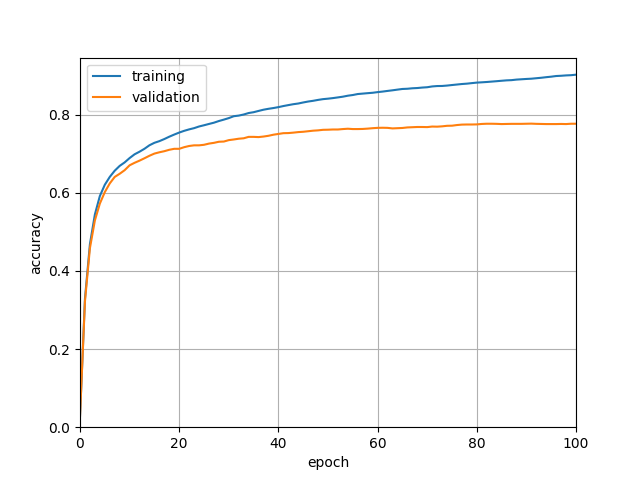
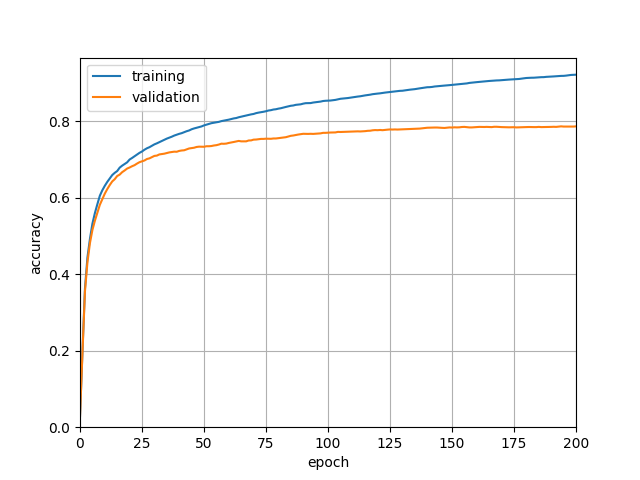
+

diff --git a/lifany_hw4/python/run_q4.py b/lifany_hw4/python/run_q4.py
@@ -46,7 +46,7 @@ for img in os.listdir("../images"):
     ##########################
     ##### your code here #####
     ##########################
-    # list of center points
+    # list of center points corresponding to the returned bboxes
     points = np.array([(bbox[0] + bbox[2])/2 for bbox in bboxes])
     points_h = [(i, (bboxes[i][1] + bboxes[i][3])/2) for i in range(len(bboxes))]
     print(points)
@@ -62,43 +62,25 @@ for img in os.listdir("../images"):
         else:
             lines.append(curr_cluster)
             curr_cluster = [points_h[i]]
-        curr_point = point
+        curr_point = point      
     lines.append(curr_cluster)
-    print(lines)
-
-    # km = KMeans(n_init=1, verbose=0, random_state=3425, init='k-means++', max_iter=5)
-    # km.fit(points.reshape(-1, 1)) 
-    # res = km.predict(points.reshape(-1, 1))
-
-    # X = points.reshape(-1, 1)
-    # ms = MeanShift(bandwidth=None, bin_seeding=True)
-    # ms.fit(X)
-    # res = ms.labels_
-
-    
-    # print("res", res)
-    # lines = [[] for i in range(len(np.unique(res)))]
-
-    
-    # for i in range(len(points)):
-    #     lines[res[i]].append(points_h[i])
-    print("bw", bw.shape)
-    print(lines)
     sorted_lines = []
     for i in range(len(lines)):
         line = lines[i]
         line.sort(key = lambda x: x[1])
-        print(i)
-        print(line)
-        print("\n")
-
-
+        sorted_lines.append([item[0] for item in line])
+    
     # crop the bounding boxes
     # note.. before you flatten, transpose the image (that's how the dataset is!)
     # consider doing a square crop, and even using np.pad() to get your images looking more like the dataset
     ##########################
     ##### your code here #####
     ##########################
+    for sl in sorted_lines:
+        print("\n", sl)
+        for idx in sl:
+            bbox = bboxes[i]
+            print((bbox[0] + bbox[2])*(bboxes[i][1] + bboxes[i][3]))
 
     # load the weights
     # run the crops through your neural network and print them out
@@ -112,3 +94,16 @@ for img in os.listdir("../images"):
     ##########################
     ##### your code here #####
     ##########################
+    # the new images
+
+
+    # initialize layers
+    initialize_weights(train_x.shape[1], hidden_size, params, "layer1")
+    initialize_weights(hidden_size, train_y.shape[1], params, "output")
+
+    h1 = forward(train_x, params, "layer1")
+    probs = forward(h1, params, "output", softmax)
+    loss, acc = compute_loss_and_acc(train_y, probs)
+
+
+

diff --git a/lifany_hw4/python/run_q3.py b/lifany_hw4/python/run_q3.py
@@ -4,7 +4,7 @@ import matplotlib.pyplot as plt
 from mpl_toolkits.axes_grid1 import ImageGrid
 from nn import *
 
-np.random.seed(3)
+np.random.seed(42)
 
 train_data = scipy.io.loadmat("../data/nist36_train.mat")
 valid_data = scipy.io.loadmat("../data/nist36_valid.mat")
@@ -20,10 +20,10 @@ if False:  # view the data
         plt.imshow(crop.reshape(32, 32).T, cmap="Greys")
         plt.show()
 
-max_iters = 100
+max_iters = 200
 # pick a batch size, learning rate
 batch_size = 64
-learning_rate = 2e-3
+learning_rate = 1e-3
 hidden_size = 64
 ##########################
 ##### your code here #####

diff --git a/lifany_hw4/python/run_q2.py b/lifany_hw4/python/run_q2.py
@@ -206,7 +206,7 @@ for k, v in params.items():
 
             params[k][i] = params[k][i] + eps
 
-            central_diff = ((loss1 - loss2) / (2*eps))
+            central_diff = (loss1 - loss2) / (2*eps)
             params["grad_" + k][i] = central_diff
 
 
